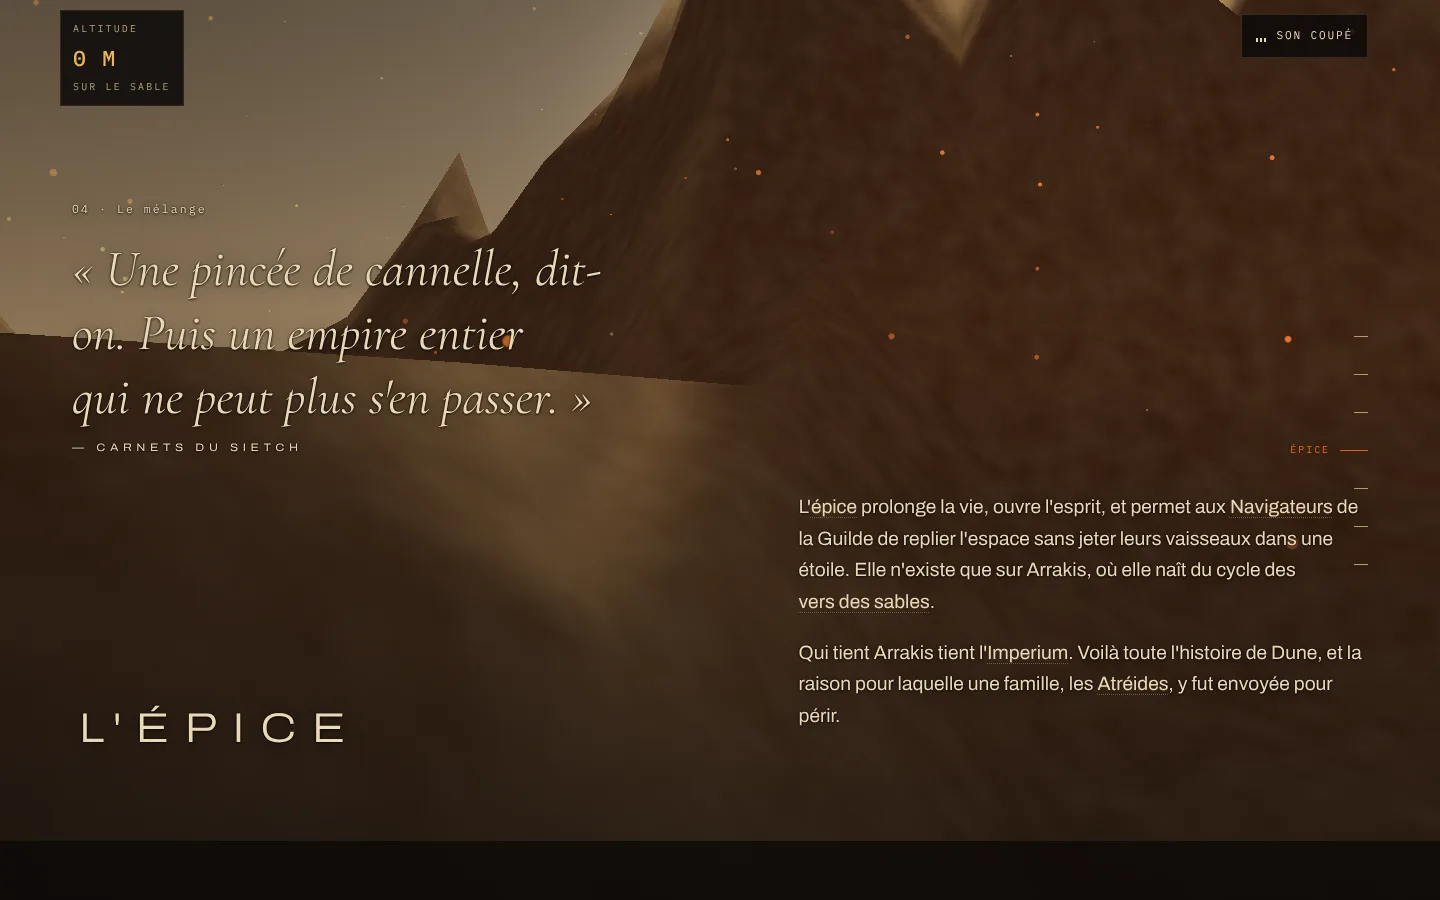
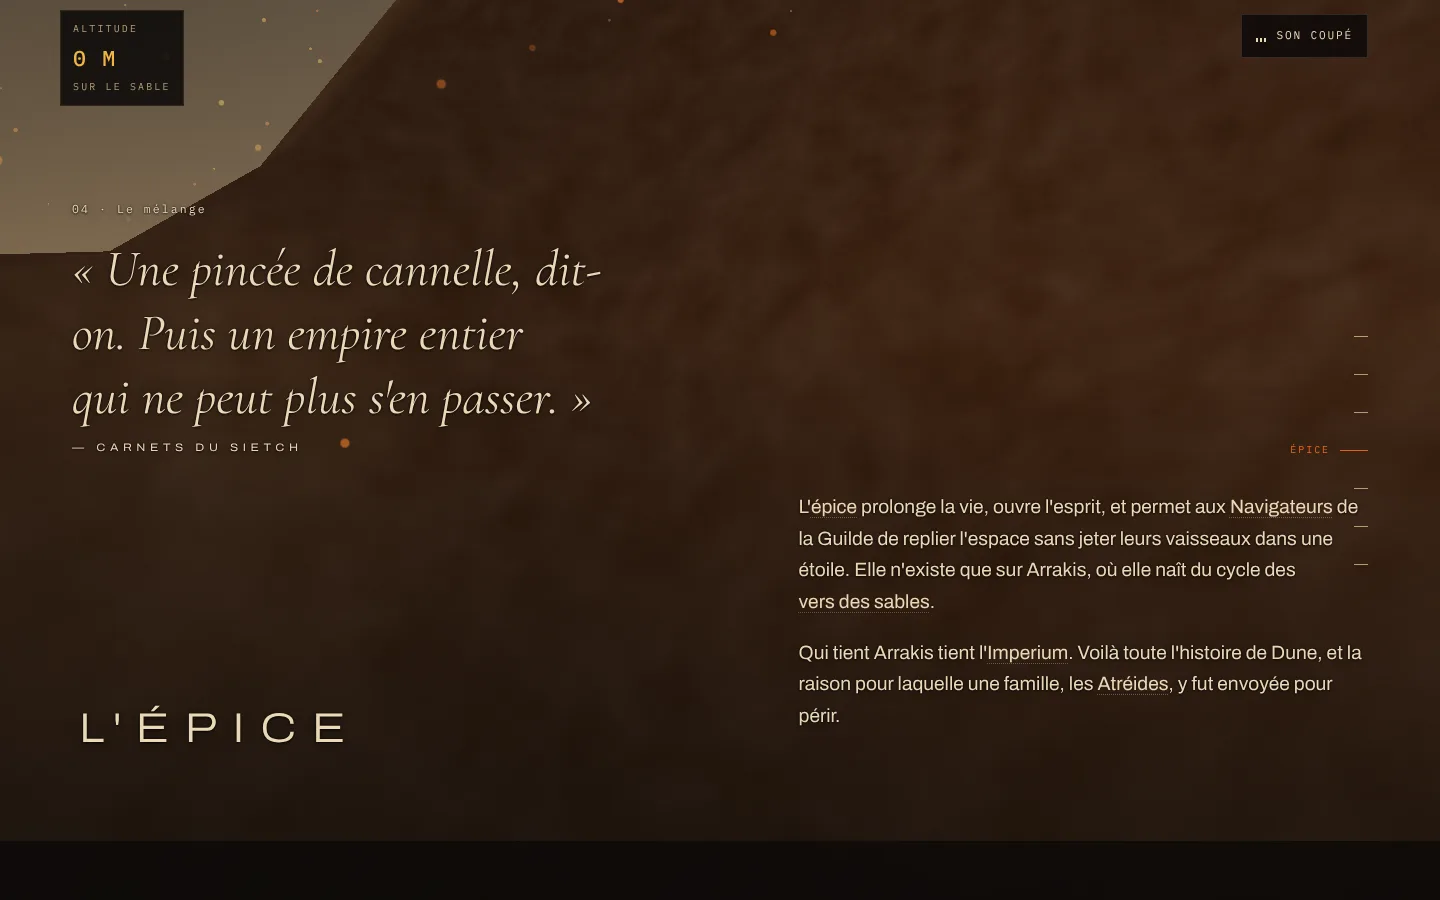
dunes : crêtes adoucies (exposants 1,6 / 2,0, processeur et nuanceur identiques) ; captures désert et épice refaites
Claude-Session: https://claude.ai/code/session_01U1pct5BcuW4HXt57W7n8JT

Changed region(s): [[0.0, 0.0, 0.5, 0.7156], [0.625, 0.0, 0.6875, 0.0622], [0.8438, 0.0, 0.875, 0.0311]]

diff --git a/src/world/dunes.ts b/src/world/dunes.ts
@@ -35,10 +35,10 @@ export function duneBase(px: number, py: number): number {
   const qx = px * 0.011, qy = py * 0.011;
   const bend = 0.55 * Math.sin(qy * 1.9 + 0.7) + (fbm2(qx * 0.6, qy * 0.6) - 0.5) * 1.6;
   let ridge = 1 - Math.abs(Math.sin(qx * 3.14159 + bend));
-  ridge = Math.pow(ridge, 2.2);
+  ridge = Math.pow(ridge, 1.6);
   let h = ridge * 34;
   const q2x = (px * 0.6 + py * 0.8) * 0.02, q2y = (py * 0.6 - px * 0.8) * 0.02;
-  const ridge2 = Math.pow(1 - Math.abs(Math.sin(q2x * 3.14159 + (fbm2(q2x, q2y) - 0.5) * 2)), 2.6);
+  const ridge2 = Math.pow(1 - Math.abs(Math.sin(q2x * 3.14159 + (fbm2(q2x, q2y) - 0.5) * 2)), 2.0);
   h += ridge2 * 9;
   h += (fbm2(px * 0.02 + 3, py * 0.02 + 3) - 0.5) * 10;
   h += (fbm2(px * 0.09, py * 0.09) - 0.5) * 1.8;

diff --git a/src/world/shaders.ts b/src/world/shaders.ts
@@ -115,10 +115,10 @@ export const DUNE_FN = /* glsl */ `
     vec2 q = p * 0.011;
     float bend = 0.55 * sin(q.y * 1.9 + 0.7) + (fbm2(q * 0.6) - 0.5) * 1.6;
     float ridge = 1.0 - abs(sin(q.x * 3.14159 + bend));
-    ridge = pow(ridge, 2.2);
+    ridge = pow(ridge, 1.6);
     float h = ridge * 34.0;
     vec2 q2 = vec2(p.x * 0.6 + p.y * 0.8, p.y * 0.6 - p.x * 0.8) * 0.02;
-    float ridge2 = pow(1.0 - abs(sin(q2.x * 3.14159 + (fbm2(q2) - 0.5) * 2.0)), 2.6);
+    float ridge2 = pow(1.0 - abs(sin(q2.x * 3.14159 + (fbm2(q2) - 0.5) * 2.0)), 2.0);
     h += ridge2 * 9.0;
     h += (fbm2(p * 0.02 + 3.0) - 0.5) * 10.0;
     h += (fbm2(p * 0.09) - 0.5) * 1.8;

diff --git a/docs/BIBLE.md b/docs/BIBLE.md
@@ -62,6 +62,7 @@ g) Ciel réel : selon l'heure locale, jour écrasant, crépuscule, nuit aux deux
 - 2026-10-18 — Le monde WebGL n'est jamais sur le chemin critique : chargé à la sortie de l'intro ou après « load ».
 - 2026-10-18 — Dans le désert, la caméra suit le creux de la vallée entre deux dunes et ne passe jamais sous le sable (formule des dunes portée sur le processeur, `src/world/dunes.ts`, à garder identique au nuanceur).
 - 2026-10-18 — Le monde WebGL ne démarre que quand le visiteur est là : sortie de l'intro, premier geste (souris, molette, doigt, clavier) ou six secondes de calme après le chargement (`components/world/World.tsx`). Avant : « chargement + 1,2 s », qui tombait dans la trace de Lighthouse ; sans carte graphique, chaque image rendue par logiciel devenait une tâche longue (TBT 4 950 ms, performance 62). Après : TBT 180-210 ms, performance 89 sur deux mesures. Un robot de mesure voit la version calme, complète.
+- 2026-10-18 — Crêtes des dunes adoucies (exposant des arêtes 1,6 et 2,0 au lieu de 2,2 et 2,6, dans `src/world/dunes.ts` ET `DUNE_FN` de `shaders.ts`, toujours identiques) : une chaîne de dunes plutôt que des aiguilles.
 - 2026-10-18 — Tout lissage du monde (caméra, chemin de la vallée, ver, prescience) est corrigé par le temps écoulé (`sm(k)` dans `createWorld.ts`) : il converge en secondes, pas en images — même descente à 30, 60 ou 120 images/s. Les captures sous rendu logiciel (SwiftShader, quelques images par seconde) se font avec `--wait=4000` au moins.
 
 ## Hypothèses (prises sans Johan, réversibles)
